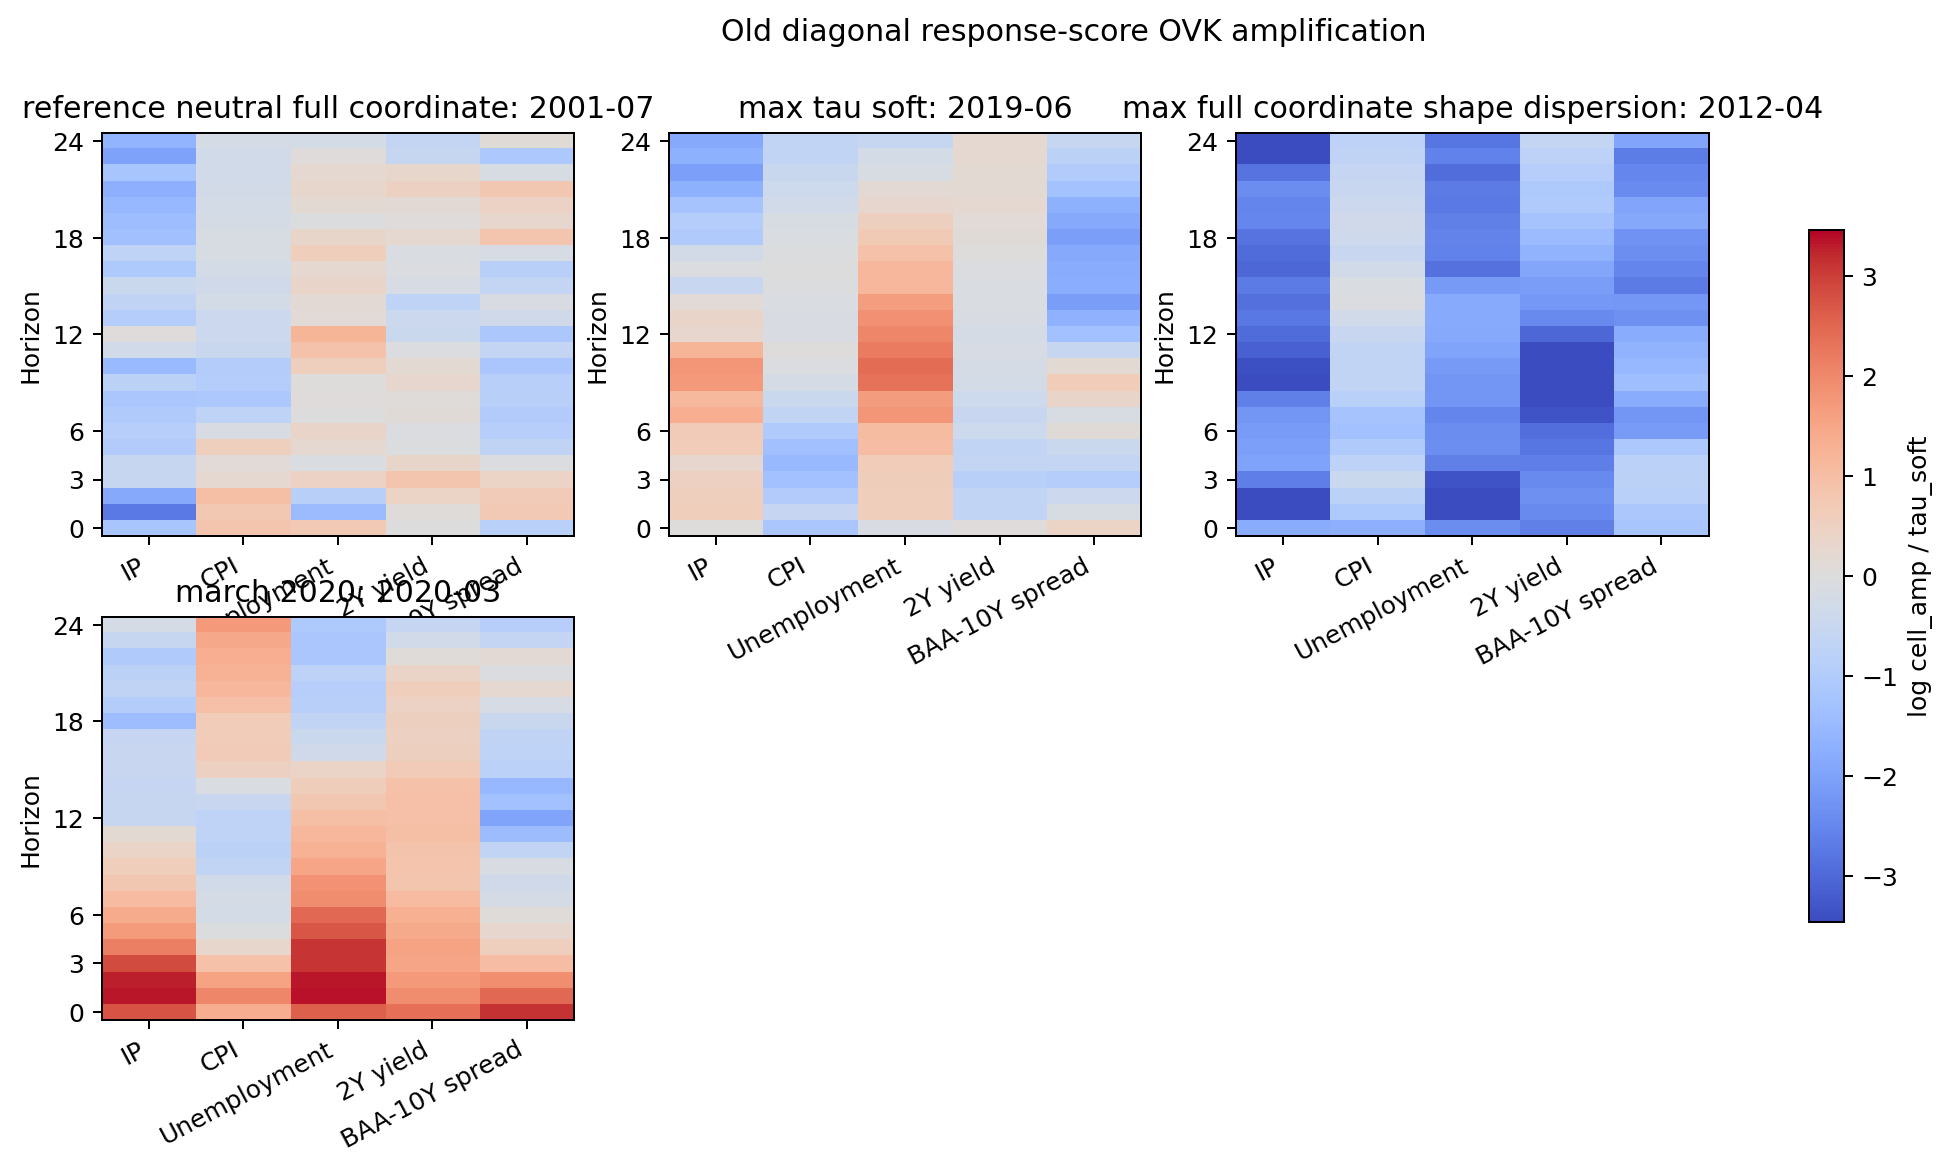
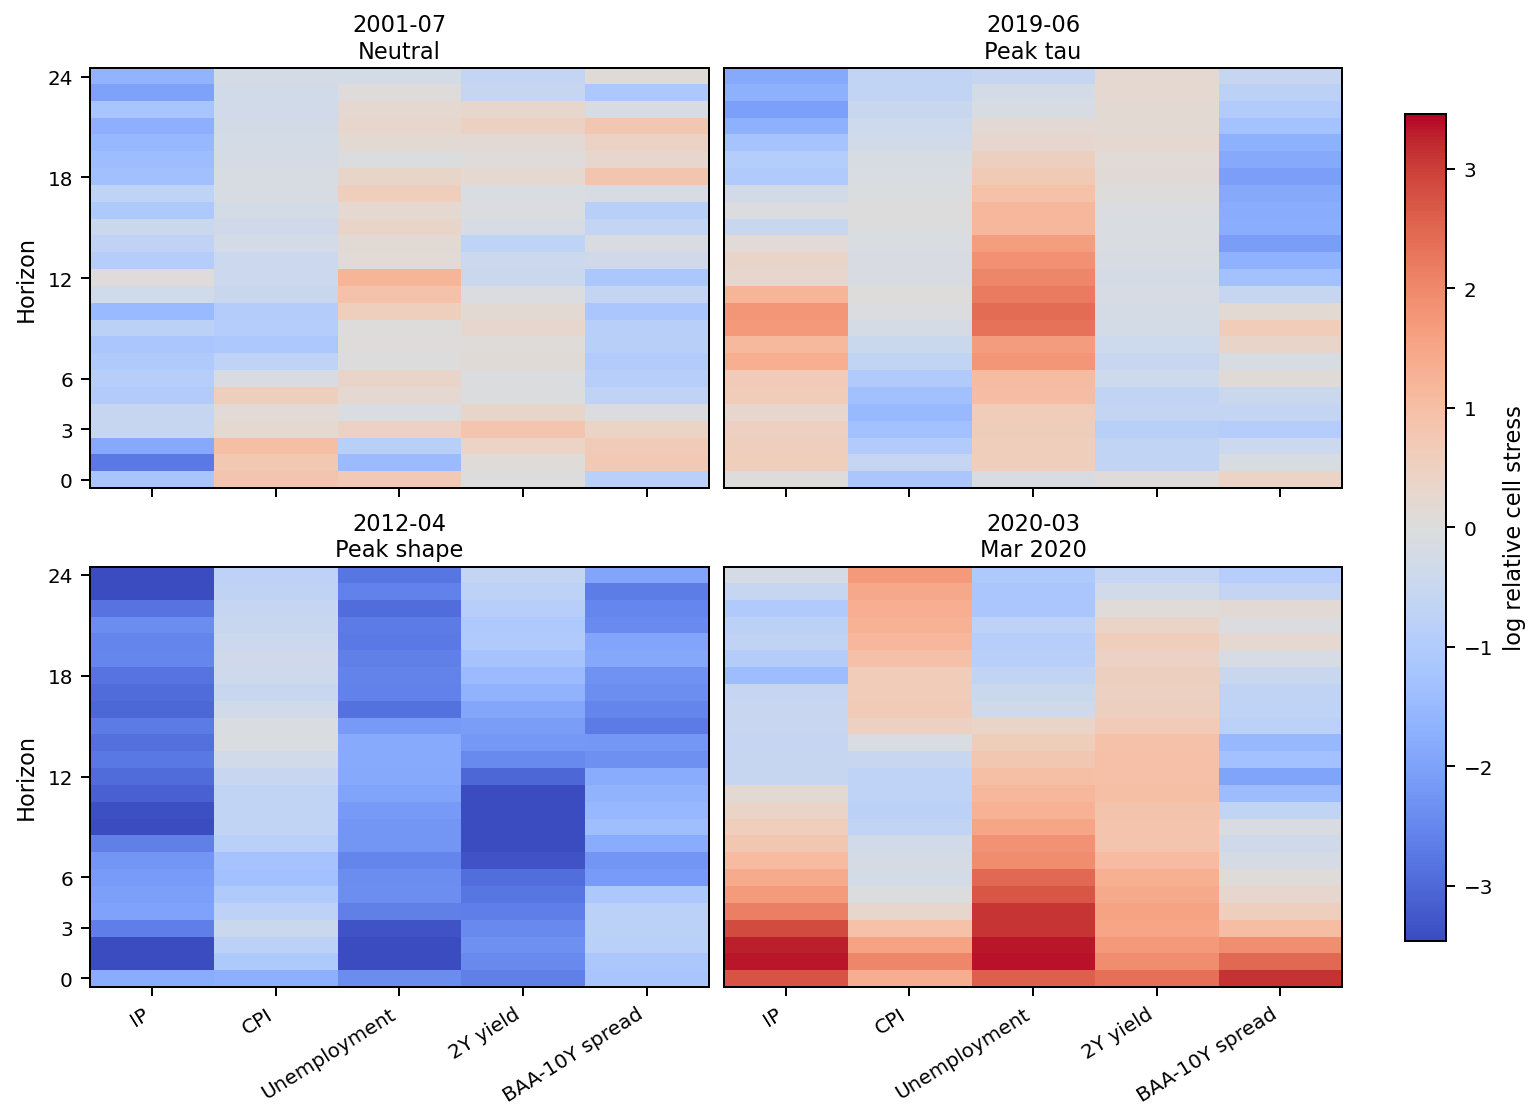
clean up selected month stress plots

diff --git a/scripts/run_monetary_lp_memory_targets.py b/scripts/run_monetary_lp_memory_targets.py
@@ -301,30 +301,70 @@ def plot_tau(df: pd.DataFrame, path: Path, title: str, label: str) -> None:
     plt.close(fig)
 
 
-def plot_selected_stress(result: Any, episodes: list[dict[str, Any]], H: int, labels: list[str], path: Path, title: str) -> None:
+def _short_episode_label(episode: Any) -> str:
+    label = str(episode).replace("_", " ").strip().lower()
+    replacements = {
+        "reference neutral full coordinate": "Neutral",
+        "reference neutral": "Neutral",
+        "max tau soft": "Peak tau",
+        "max full coordinate shape dispersion": "Peak shape",
+        "max shape dispersion": "Peak shape",
+        "march 2020": "Mar 2020",
+    }
+    return replacements.get(label, label.title())
+
+
+def plot_selected_stress(result: Any, episodes: list[dict[str, Any]], H: int, labels: list[str], path: Path, _title: str) -> None:
     pvars = len(labels)
     n = max(1, len(episodes))
-    ncols = min(n, 3)
+    if n <= 3:
+        ncols = n
+    elif n <= 4:
+        ncols = 2
+    else:
+        ncols = min(3, int(np.ceil(np.sqrt(n))))
     nrows = int(np.ceil(n / ncols))
     selected = np.vstack([result.cell_shape[ep["idx"]].reshape(H + 1, pvars) for ep in episodes])
     vmax = float(np.nanquantile(np.abs(selected), 0.98)) if selected.size else 1.0
     vmax = max(vmax, 0.25)
-    fig, axes = plt.subplots(nrows, ncols, figsize=(4.8 * ncols, 3.2 * nrows), squeeze=False)
+    fig, axes = plt.subplots(
+        nrows,
+        ncols,
+        figsize=(3.9 * ncols + 0.7, 2.95 * nrows + 0.25),
+        squeeze=False,
+        constrained_layout=True,
+    )
     image = None
     yticks = [h for h in [0, 3, 6, 12, 18, H] if h <= H]
-    for ax, ep in zip(axes.ravel(), episodes):
+    for i, (ax, ep) in enumerate(zip(axes.ravel(), episodes)):
         mat = result.cell_shape[ep["idx"]].reshape(H + 1, pvars)
         image = ax.imshow(mat, aspect="auto", origin="lower", cmap="coolwarm", vmin=-vmax, vmax=vmax)
-        ax.set_title(f"{ep['episode'].replace('_', ' ')}: {ep['date']}")
-        ax.set_xticks(np.arange(pvars), labels, rotation=28, ha="right")
+        date_label = pd.to_datetime(ep["date"]).strftime("%Y-%m")
+        ax.set_title(f"{date_label}\n{_short_episode_label(ep['episode'])}", fontsize=9, pad=4)
+        row = i // ncols
+        col = i % ncols
+        show_x = row == nrows - 1
+        show_y = col == 0
+        ax.set_xticks(np.arange(pvars))
+        if show_x:
+            ax.set_xticklabels(labels, rotation=32, ha="right", fontsize=8)
+        else:
+            ax.set_xticklabels([])
         ax.set_yticks(yticks)
-        ax.set_ylabel("Horizon")
+        if show_y:
+            ax.set_ylabel("Horizon", fontsize=9)
+            ax.tick_params(axis="y", labelsize=8)
+        else:
+            ax.set_yticklabels([])
+            ax.tick_params(axis="y", length=0)
+        ax.tick_params(axis="x", labelsize=8)
     for ax in axes.ravel()[len(episodes) :]:
         ax.axis("off")
     if image is not None:
-        fig.colorbar(image, ax=axes.ravel().tolist(), shrink=0.78, label="log cell_amp / tau_soft")
-    fig.suptitle(title)
-    fig.savefig(path, dpi=180, bbox_inches="tight")
+        colorbar = fig.colorbar(image, ax=axes.ravel()[: len(episodes)].tolist(), shrink=0.9)
+        colorbar.set_label("log relative cell stress", fontsize=9)
+        colorbar.ax.tick_params(labelsize=8)
+    fig.savefig(path, dpi=180, bbox_inches="tight", pad_inches=0.08)
     plt.close(fig)
 
 